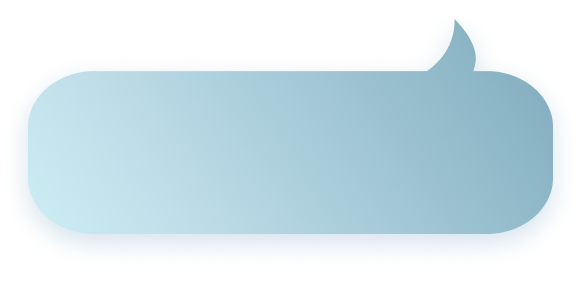
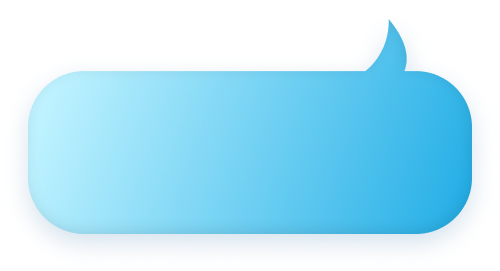
media querys fix and changed graphics

diff --git a/styles/Desktop.css b/styles/Desktop.css
@@ -7,6 +7,7 @@
     align-items: center;
 
     margin: auto;
+    margin-top: 2rem;
   }
 
   lottie-player {
@@ -22,44 +23,46 @@
 
   .bubbleImage {
     max-width: 160%;
+    display: flex;
   }
 
-  #textTL {
-    padding-right: 3.3rem;
-    font-size: 0.7rem;
-    width: auto;
-    min-width: 5rem;
+  #textTL, #textTR {
+    padding-bottom: 1.5rem;
+    font-size: 1rem;
+    letter-spacing: 6%;
   }
 
-  #textTR {
-    padding-left: 3.3rem;
-    font-size: 0.7rem;
-    width: 100%;
-    min-width: 5rem;
+  #textBL, #textBR {
+    padding-top: 1.5rem;
+    font-size: 1rem;
+    letter-spacing: 6%;
   }
 
-  #textBL {
-    padding-right: 3.3rem;
-    font-size: 0.7rem;
-    min-width: 5rem;
+  #textBR, #textTR { 
+    padding-left: 3rem;
   }
 
-  #textBR {
-    padding-left: 3.3rem;
-    font-size: 0.7rem;
-    min-width: 5rem;
+  #textBL, #textTL { 
+    padding-right: 3rem;
   }
 
   #bubbleTL {
+    display: flex;
+    justify-content: center;
     margin-right: 3rem;
   }
+
   #bubbleTR {
     margin-left: 3rem;
   }
+
   #bubbleBL {
+    margin-top: 1rem;
     margin-right: 3rem;
   }
+
   #bubbleBR {
+    margin-top: 1rem;
     margin-left: 3rem;
   }
 

diff --git a/src/main.ts b/src/main.ts
@@ -41,13 +41,6 @@ function loadMain(): void {
           modal.style.opacity = "0";
           modal.style.visibility = "hidden";
         };
-
-        // TO DO: make background close modal on click
-        // window.onclick = (event: Event) => {
-        //   if (event.target === modal) {
-        //     modal.style.visibility = "hidden";
-        //   }
-        // };
       };
     }
 

diff --git a/styles/main.css b/styles/main.css
@@ -23,14 +23,14 @@ p {
   letter-spacing: 2%;
 }
 
-#textBL, #textBR {
-  padding-top: .7rem;
+#textTL, #textTR {
+  padding-bottom: 1rem;
   font-size: .7rem;
   letter-spacing: 6%;
 }
 
-#textTL, #textTR {
-  padding-bottom: 1rem;
+#textBL, #textBR {
+  padding-top: .5rem;
   font-size: .7rem;
   letter-spacing: 6%;
 }

diff --git a/src/nameChoice.ts b/src/nameChoice.ts
@@ -24,7 +24,7 @@ function nameChoice() {
   });
 }
 
-const greeting: string = "Hi! What's your name?";
+const greeting: string = "What's your name?";
 
 function showGreeting() {
   document.getElementById(bubbleID[0]).style.visibility = "visible";
